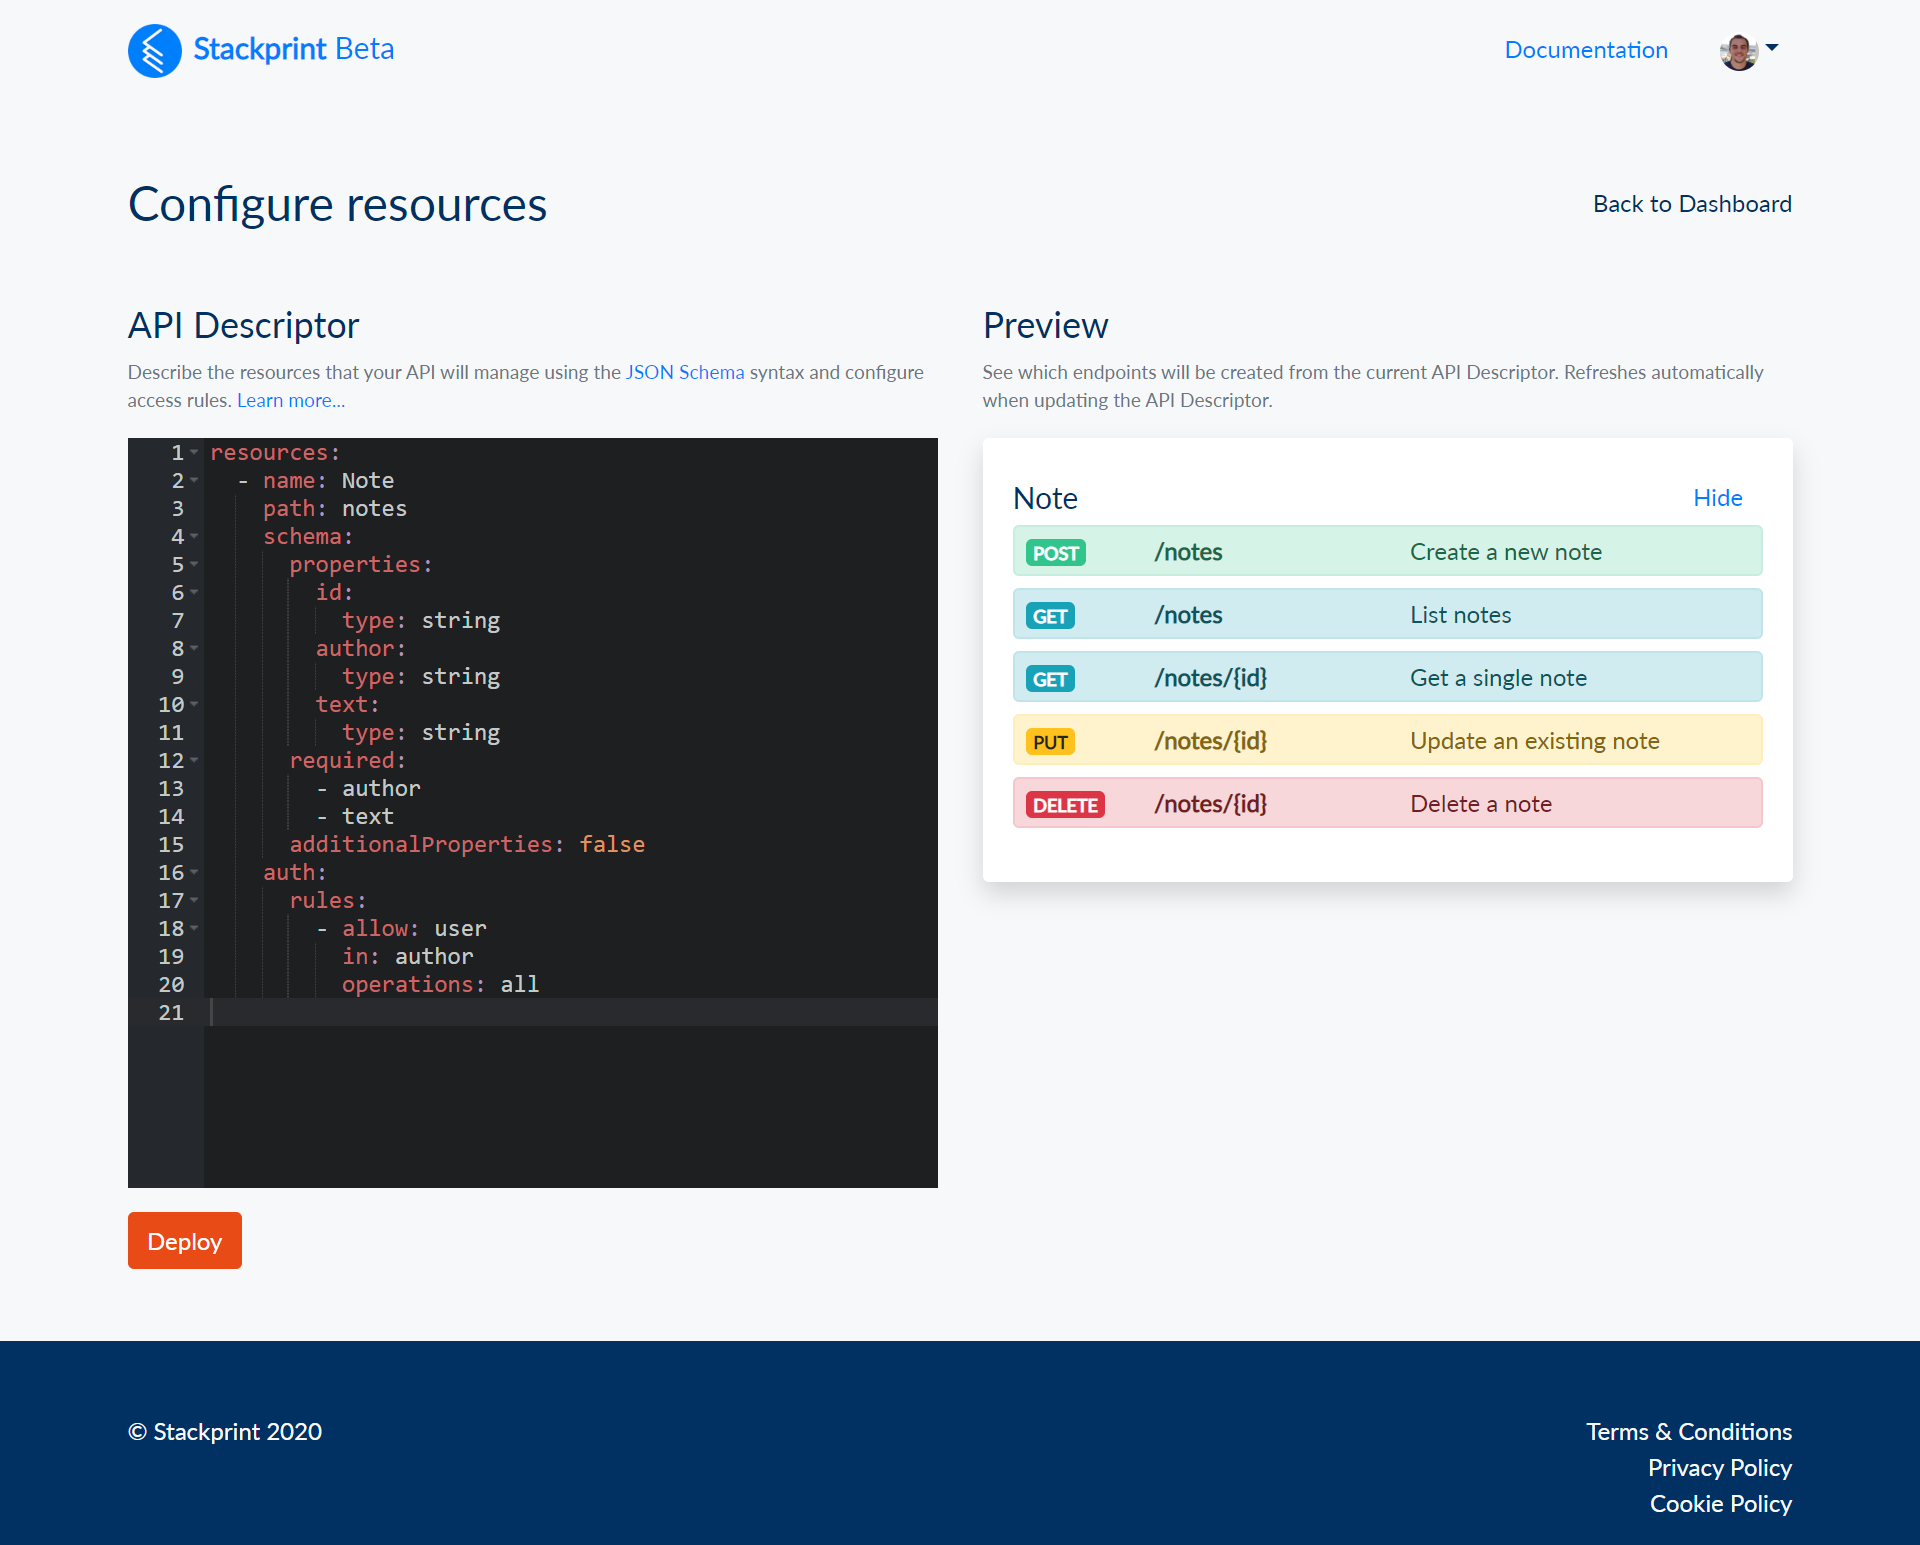
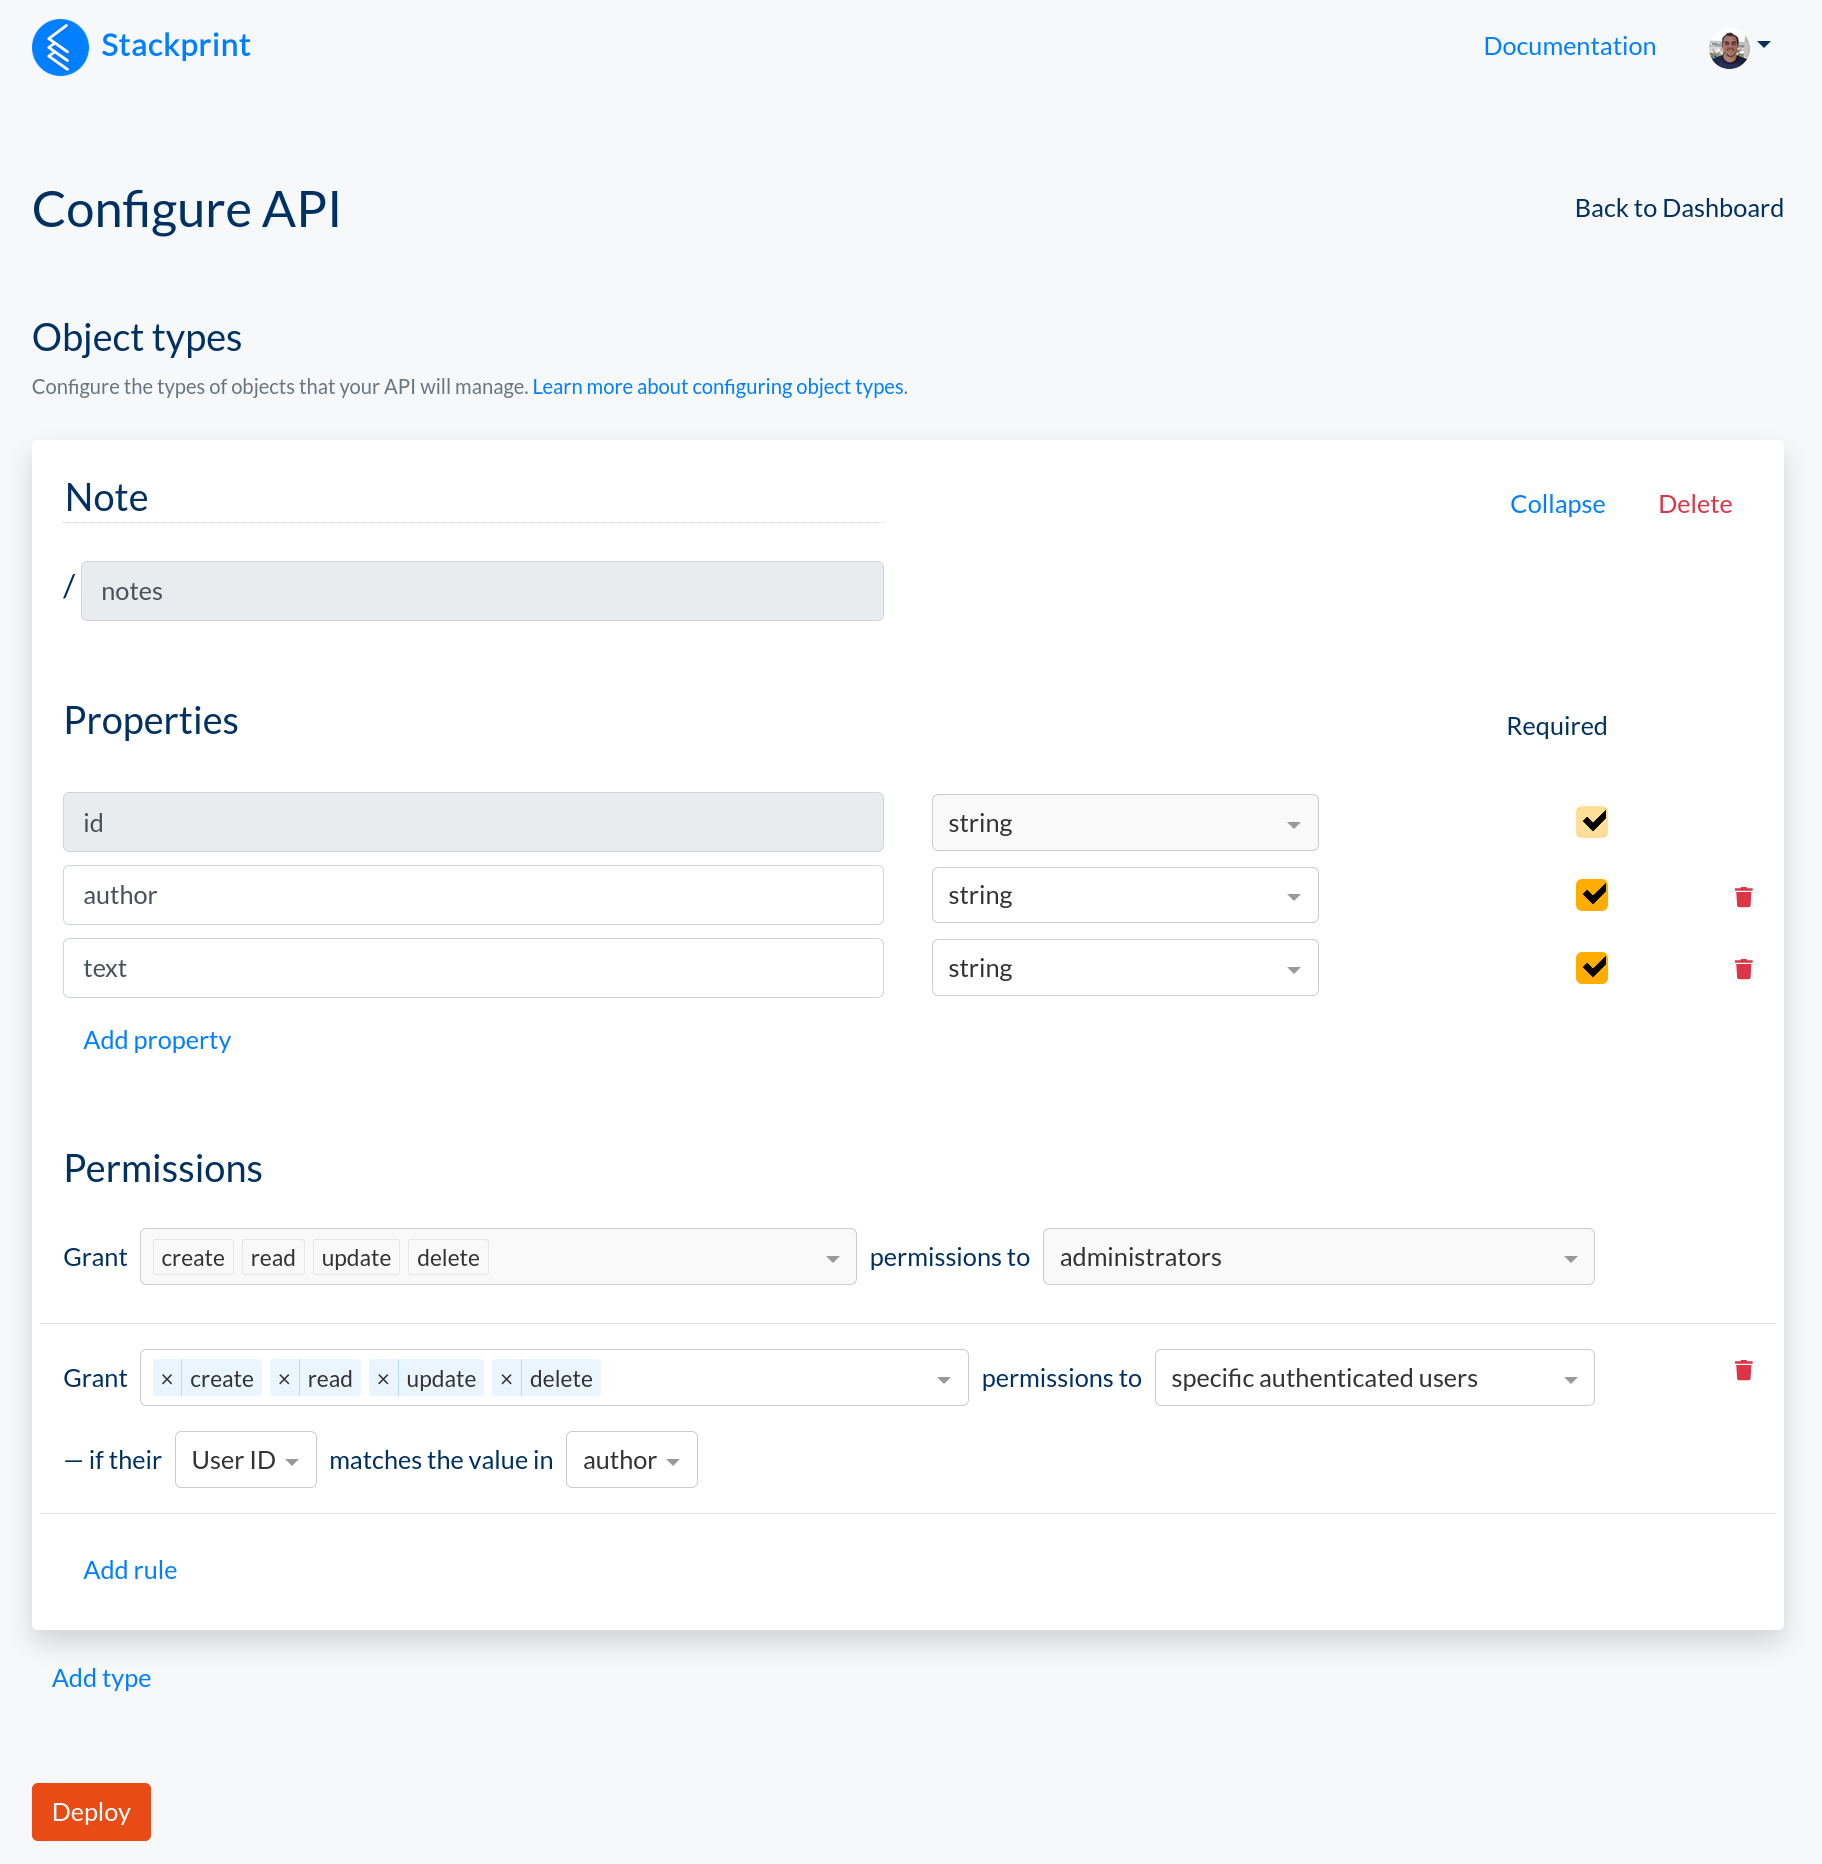
update welcome and quickstart for api editor

diff --git a/docs/quickstart.md b/docs/quickstart.md
@@ -10,17 +10,17 @@ In this section you'll learn how to quickly build and deploy your first REST API
 
 - On your [Stackprint Dashboard](https://console.stackprint.io) click **Create my first API**
 - Enter a name for your API and a unique path
-- Click **Submit** to create the API
+- Click **Continue** to create the API
 
 ![Create an API](/img/getting-started/create-an-api.png)
 
-## Configure resources
+## Configure the API
 
-On the next screen you'll be able to configure the resources that your API will manage by providing an [API Descriptor](configuring-resources.md#api-descriptor). On the right you'll see a live preview of the endpoints that will be created. The default API Descriptor defines a `Note` resource with three properties and an authorization rule that only allows the author of a note full access.
+On the next screen you'll be able to configure the object types that your API will manage through our API Editor. The default configuration defines a `Note` resource with three properties and a permission rule that only allows the author of a note full access.
 
-- Click **Deploy** to deploy your API with the default API Descriptor
+- Click **Deploy** to deploy your API with the default configuration
 
-![Configure resources](/img/getting-started/configure-resources.png)
+![Configure your API](/img/getting-started/configure-resources.png)
 
 ## Test your API
 
@@ -45,4 +45,4 @@ curl -H "Accept: application/json" \
 
 That's it! You have successfully built and deployed your first API with Stackprint and created your first object.
 
-In the following sections you'll learn more about creating APIs that support JWT authentication, configuring custom resources and supporting more complex access scenarios.
+In the following sections you'll learn more about creating APIs that support JWT authentication, configuring custom object types and supporting more complex access scenarios.

diff --git a/docs/connecting-from-angular.md b/docs/connecting-from-angular.md
@@ -4,7 +4,7 @@ title: Connecting from Angular Apps
 
 import useBaseUrl from '@docusaurus/useBaseUrl';
 
-In this section you'll learn how to connect to your Stackprint API from [Angular](https://angular.io) apps with generated client code. The shown code examples are based on generated client code for an API deployed from the default API Descriptor and the **Note** resource. For your API and resources, the names of services, functions and parameters will likely be different.
+In this section you'll learn how to connect to your Stackprint API from [Angular](https://angular.io) apps with generated client code. The shown code examples are based on generated client code for an API deployed from the default API configuration and the **Note** resource. For your API and object types, the names of services, functions and parameters will likely be different.
 
 :::note
 Generated client code is compatible with Angular 9.0.0+. Please make sure to upgrade your project if you're still using an older version of Angular.
@@ -31,7 +31,7 @@ import { ApiModule } from 'gen/typescript-angular-client';
 })
 ```
 
-- In any component you can now inject generated services for managing different resources:
+- In any component you can now inject generated services for managing different object types:
 
 ```typescript
 import { NoteService } from 'gen/typescript-angular-client';

diff --git a/docs/connecting-from-react.md b/docs/connecting-from-react.md
@@ -6,7 +6,7 @@ import useBaseUrl from '@docusaurus/useBaseUrl';
 import Tabs from '@theme/Tabs';
 import TabItem from '@theme/TabItem';
 
-In this section you'll learn how to connect to your Stackprint API from [React](https://reactjs.org) apps with generated client code. The shown code examples are based on generated client code for an API deployed from the default API Descriptor and the **Note** resource. For your API and resources, the names of services, functions and parameters will likely be different.
+In this section you'll learn how to connect to your Stackprint API from [React](https://reactjs.org) apps with generated client code. The shown code examples are based on generated client code for an API deployed from the default API configuration and the **Note** resource. For your API and object types, the names of services, functions and parameters will likely be different.
 
 A full example React application that connects to a Stackprint API can be found on [GitHub](https://github.com/stackprint/example-notes-react).
 

diff --git a/docs/welcome.md b/docs/welcome.md
@@ -8,7 +8,7 @@ import useBaseUrl from '@docusaurus/useBaseUrl';
 
 We believe that when you have limited time to build an app or you're creating an MVP to test the market, you should not spend your time coding another REST API yourself. Your time is better spent working on what makes your app stand out.
 
-That's why Stackprint allows you to build REST APIs by just connecting with your authentication provider and configuring the data that your API will manage using a simple YAML format. Deployments happen with one click.
+That's why Stackprint allows you to build REST APIs by just connecting with your authentication provider and configuring the data that your API will manage using our intuitive API Editor. Deployments happen with one click.
 
 ![Build REST APIs fast with Stackprint](/img/getting-started/configure-resources.png)
 
